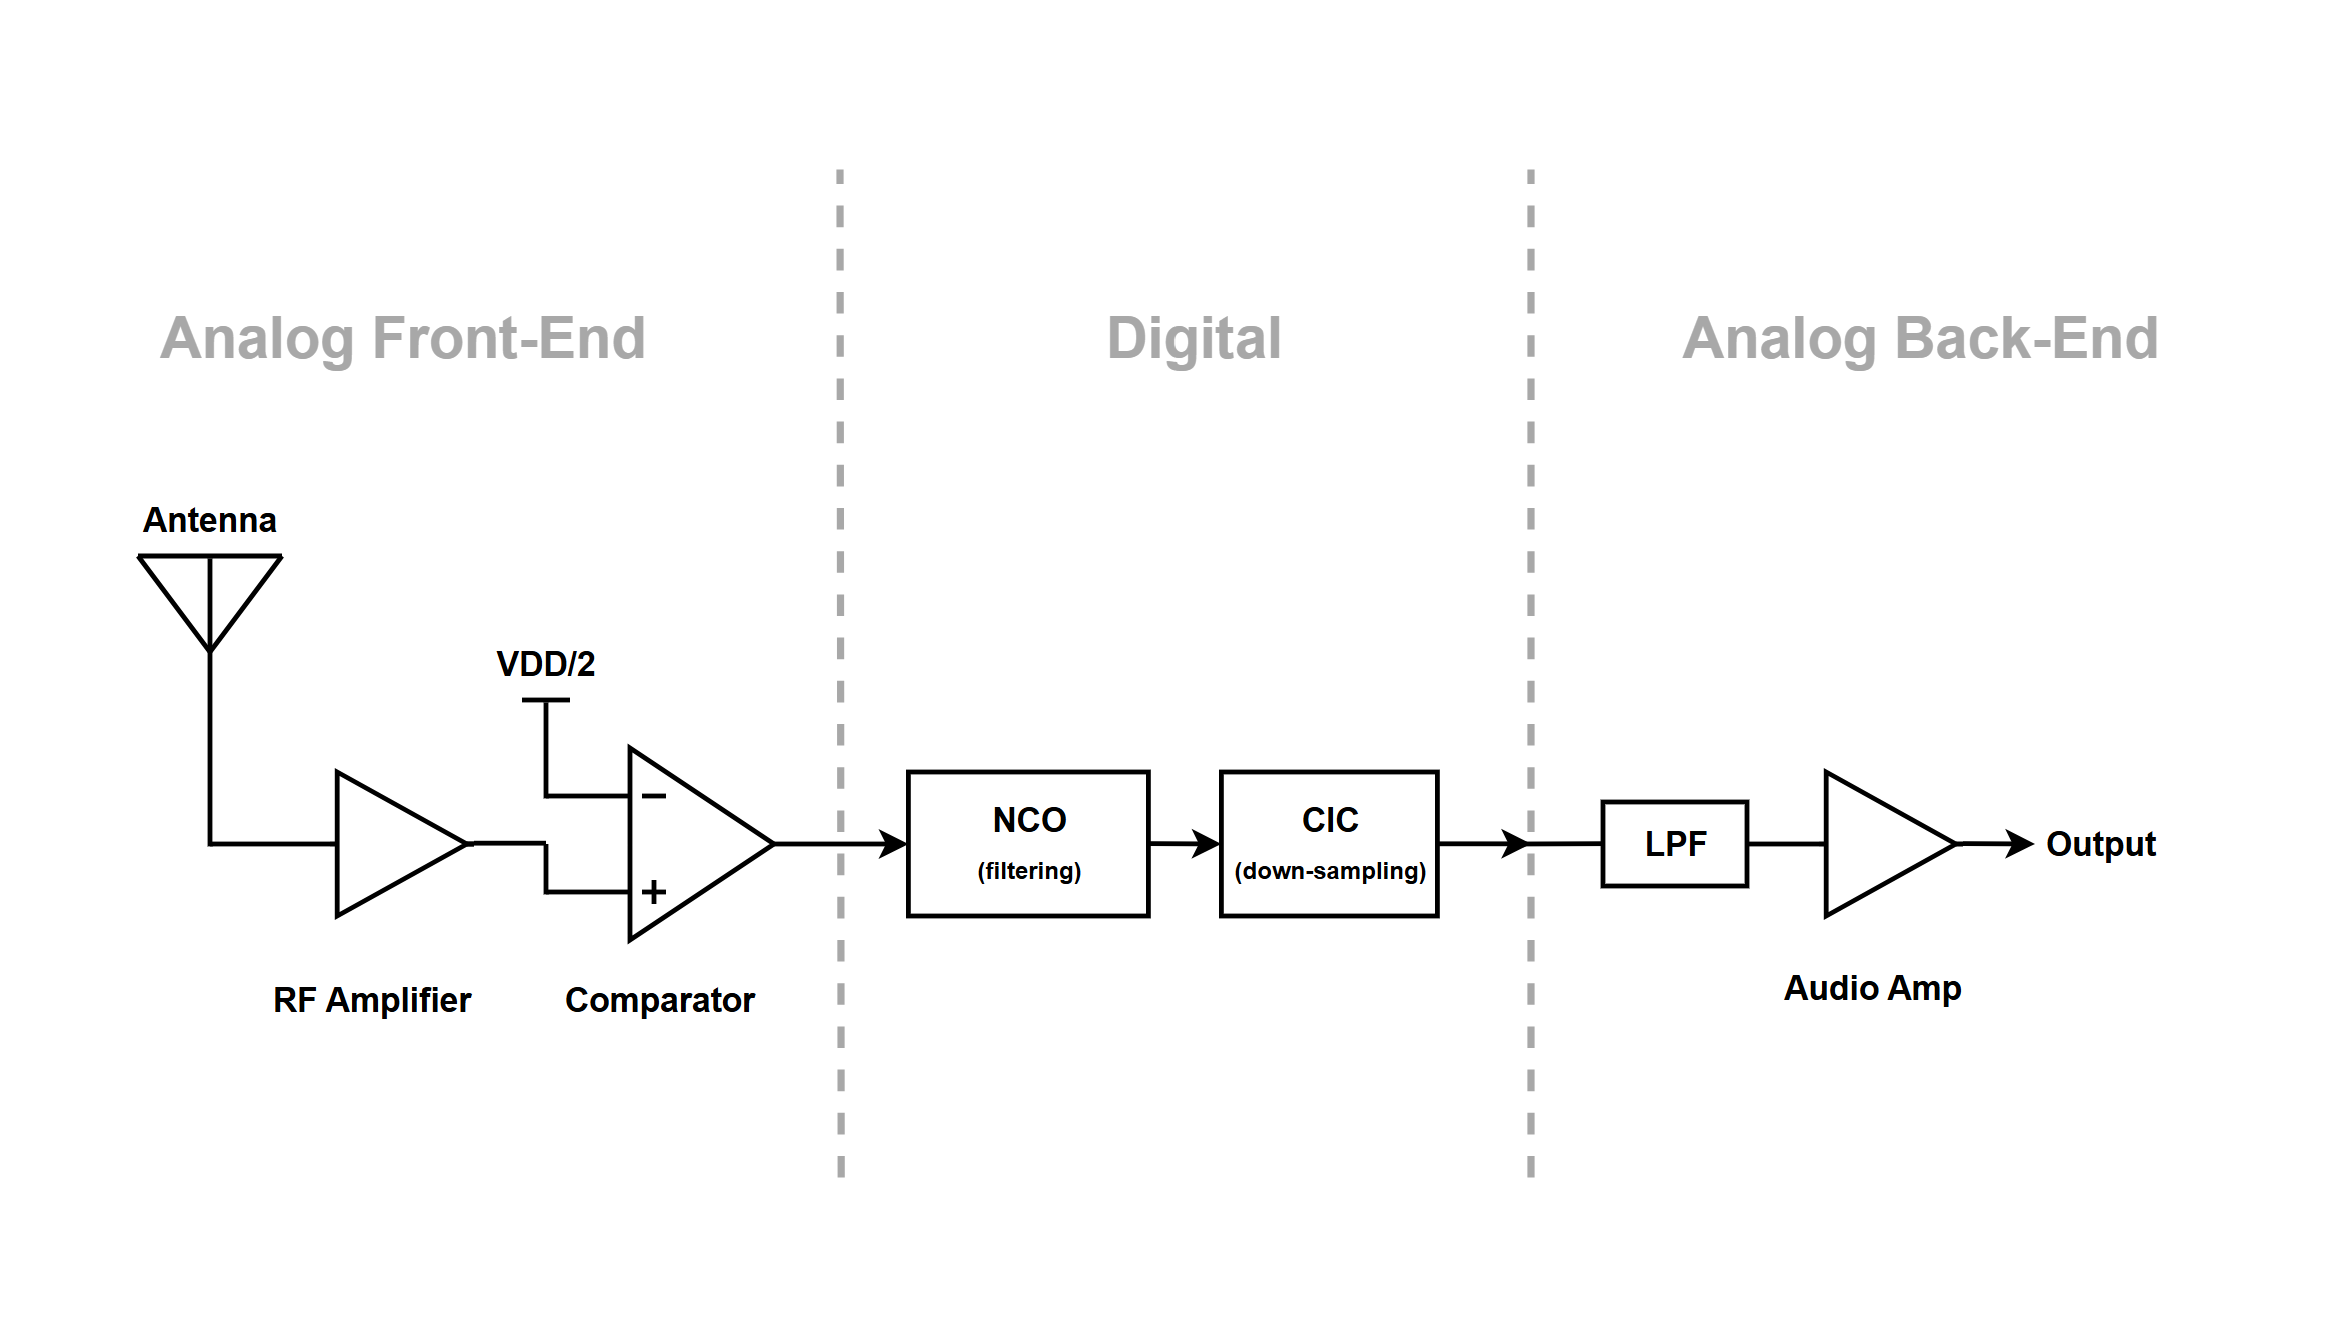
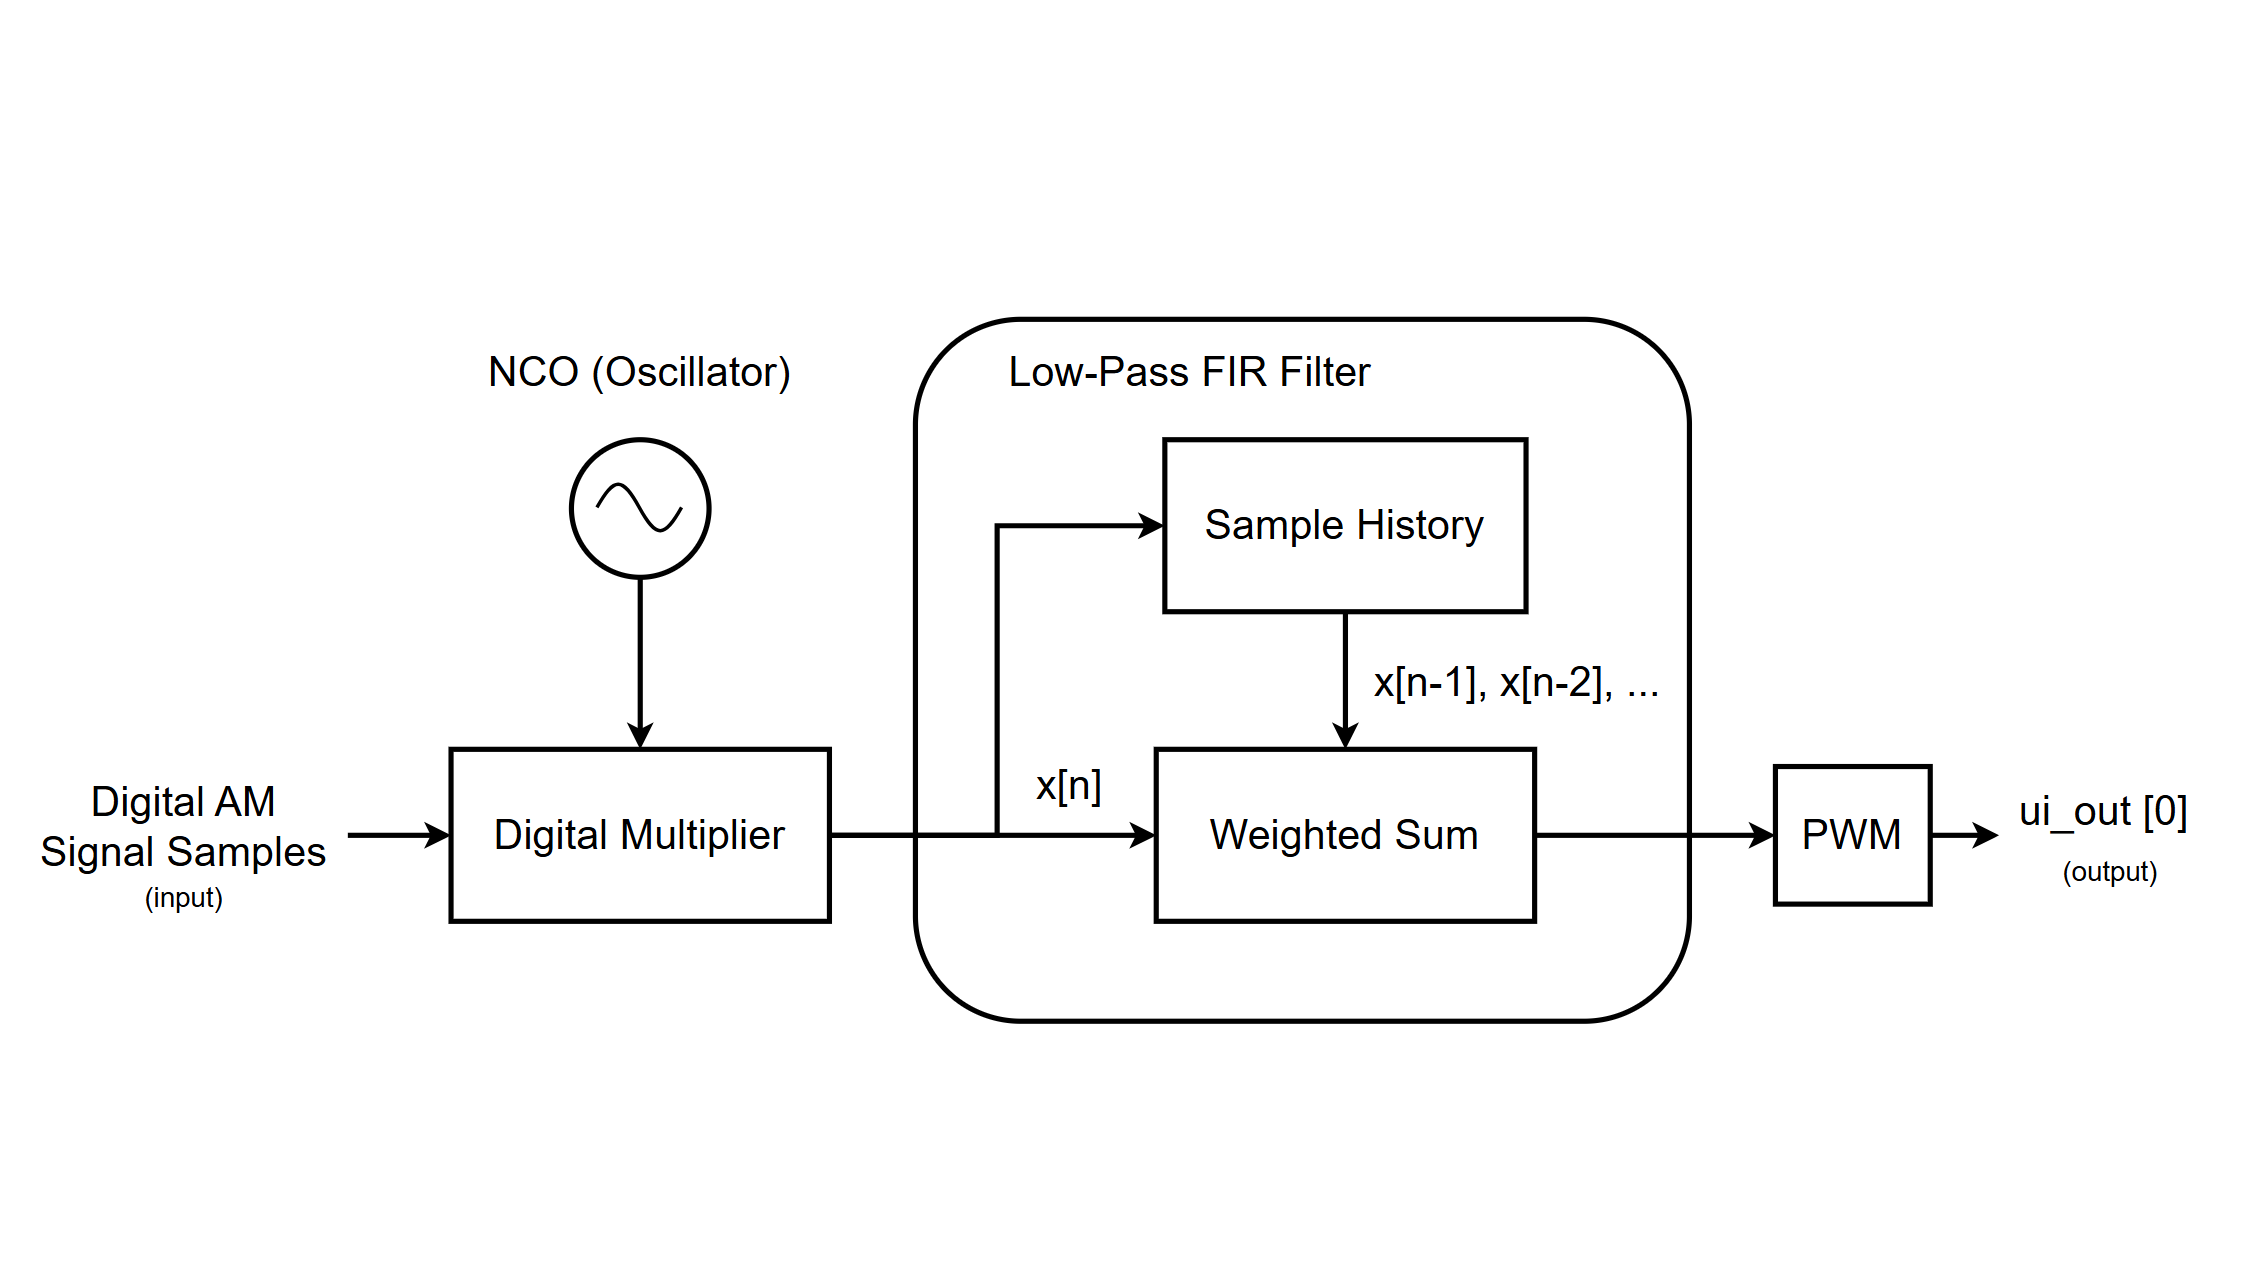
Update project proposal docs

diff --git a/docs/ProjectProposalDoc.md b/docs/ProjectProposalDoc.md
@@ -1,10 +1,10 @@
-# Project Proposal - Angela & Ethan
+# Updated Design Proposal & Timeline
+
+---
 
 ### 1. Statement of Purpose
 
-**Digital Radio:** The purpose of this project is to implement a digital radio that converts radio frequency (RF) signals into digital data. This data can then be processed, transformed, and retransmitted through a speaker.
-
-Through the use of a numerically controlled oscillator (NCO), a digital mixer, and a decimation filter, we can efficiently downsample high-frequency signals to audio frequencies.
+Digital Radio Backend: The purpose of this project is to design a digital radio backend that implements the final demodulating and filtering stages of an AM radio. It operates on a clean, pre-filtered digital AM input that is at 455 kHz IF and utilizes a synchronous multiplier to demodulate the signal down to baseband and a FIR decimation filter to extract a clean audio output.
 
 ### 2. System Diagram
 
@@ -12,11 +12,11 @@ Through the use of a numerically controlled oscillator (NCO), a digital mixer, a
 
 ### 3. I/O Pin Assignments
 
-| **I/O Pin**  | **Usage** |
+| **I/O Pin** | **Usage** |
 | --- | --- |
-| ui_in [0] | Dedicated input: digital 1-bit RF input  |
-| ui_in[7:1] | Dedicated input: Frequency control  |
-| ui_out [0] | Dedicated output: decimated baseband audio output |
+| ui_in[7:0] | Dedicated input: digital 8-bit IF input |
+| ui_out [0] | Dedicated output: PWM output signal |
+| ui_out [1] | Dedicated output: NCO debug output |
 | clk | Clock |
 | rst_n | Active-low system reset |
 
@@ -24,41 +24,18 @@ Through the use of a numerically controlled oscillator (NCO), a digital mixer, a
 
 | **Specification** | **Value** | **Notes** |
 | --- | --- | --- |
-| Tuning Bandwidth | 535kHz - 1800kHz | Frequency range for AM radio broadcasts |
-| NCO Bit Width | 16 bits | Determines how finely we can tune to specific frequencies. 16 bits should give us good precision without taking up too much space. |
-| Decimation Factor | 1024 | Lowers sample rate from 50MHz to ~48kHz, which is standard for audio. |
-| Audio Resolution | ~10-bit  | Below CD quality, but good enough and saves on space. |
+| Input Carrier Frequency | 455kHz | Industry standard frequency for IF |
+| Input bit width | 8-bits | Contains amplitude information of the incoming AM signal |
+| Clock Speed | 1MHz | This is roughly twice the input carrier frequency to ensure we can accurately reproduce the message signal |
+| Message frequency to preserve (FIR Filter) | 0 - 5kHz | |
 
-**Tiny Tapeout Restrictions:**
-
-| **Specification** | **Value** | **Notes** |
-| --- | --- | --- |
-| Clock Speed | 50MHz | Limits the frequencies we can measure (can’t receive FM radio signals) |
-| Demo-board Voltage | 3.3V | Determines what we read as a HIGH (1) or LOW (0) |
+**To be determined:** Other FIR filter specs like the number of taps & coefficient values will need to be determined through testing.
 
 ### 5. Timeline of completion / Who Does What?
 
-| **Date** | **Description of Task** |
+| Date | Description of Tasks |
 | --- | --- |
-| Week 3 (Sept 24 - Oct 1) | Project Proposal [ Both ]<br>• Preliminary research<br>• Create block diagram<br>• Define I/O assignments<br>• Define proposed project specifications |
-| Week 4 (Oct 1 - Oct 8) | Verilog code [ Both ]<br>• Create project Verilog file structure<br>• Assign and initiate I/O wires and paths according to I/O table<br>• Download LTSpice |
-| Week 5 (Oct 8 - Oct 15)<br>(Reading Week) | Verilog code<br>• NCO implementation with digital mixer [ Angela ]<br>• CIC implementation [ Ethan ] |
-| Week 6 (Oct 15 - Oct 22) | Verilog code [ Angela ]<br>• PWM Audio Output implementation<br>• Create CocoTB tests for previously implemented components<br><br>Analog design [ Ethan ]<br>• Initial circuit designs in LTSpice |
-| Week 7 (Oct 22 - Oct 29) | (**Midterm Week**) |
-| Week 8 (Oct 29 - Nov 5) | Analog design<br>• Use LTSpice simulation for testing / verification [ Angela ]<br>• Tune component specs based on testing [ Ethan ] |
-| Week 9 (Nov 5 - Nov 12) | Review / Testing [ Both ]<br>• Run synthesis with TinyTapeout<br>• Debug and review synthesis errors<br>• Work on any areas that require attention |
-| Week 10 (Nov 12 - Nov 19) | Review / Testing [ Both ]<br>• Run synthesis with TinyTapeout<br>• Debug and review synthesis errors<br>• Work on any areas that require attention |
-| Week 11 (Nov 19 - Nov 26) | Review / Documentation [ Both ]<br>• Update all documentation on GitHub (`/docs` folder)<br>• Final preparations for Final Submission |
-
----
-
-### References
-
-- [https://www.i2phd.org/code/ARM_Radio.pdf](https://www.i2phd.org/code/ARM_Radio.pdf)
-- [https://tinytapeout.com/specs/clock/](https://tinytapeout.com/specs/clock/)
-
-Proposal examples:
-
-- https://github.com/Krisphy/tt-ece298a-demoscene/blob/main/docs/ECE298a%20Proposal%20-%20Sunnie%20%26%20Krish.pdf
-- https://github.com/jamesrosssharp/tt09-am-sdr/blob/main/docs/info.md
-- [https://github.com/Rongbin99/ece298a-f25/blob/main/docs/schedule.md](https://github.com/Rongbin99/ece298a-f25/blob/main/docs/schedule.md)
+| Week 9 <br>(Nov 5 - Nov 12) | Get a first draft of the Verilog code finished:<br>• Multiplier [ Angela ]<br>• PWM Output [ Angela ]<br>• FIR Filter Implementation [ Ethan ]<br>&nbsp;&nbsp;&nbsp;&nbsp;◦ Initial draft of parameters/taps<br>&nbsp;&nbsp;&nbsp;&nbsp;◦ Basic first tests to verify parameters |
+| Week 10 <br>(Nov 12 - Nov 19) | Testing (CocoTB):<br>• Full set of unit tests for each module<br>&nbsp;&nbsp;&nbsp;&nbsp;◦ Multiplier & PWM tests [ Angela ]<br>&nbsp;&nbsp;&nbsp;&nbsp;◦ Verify parameters set for FIR [ Ethan ]<br>• Set of end-to-end tests [ Both ]<br><br>Evaluate the size of the project, make sure it fits. |
+| Week 11 <br>(Nov 19 - Nov 26) | Review / Testing [ Both ]:<br>• Work on any areas that require attention:<br>&nbsp;&nbsp;&nbsp;&nbsp;◦ Continue with creating tests<br>&nbsp;&nbsp;&nbsp;&nbsp;◦ Verify FIR parameters<br>&nbsp;&nbsp;&nbsp;&nbsp;◦ Work on reducing size of project |
+| Week 12 <br>(Nov 26 - Dec 3) | Review / Documentation [ Both ]:<br>• Update all documentation on GitHub (`/docs` folder)<br>• Final preparations for Final Submission<br>• Wrap up anything that remains to be completed. |

diff --git a/docs/OLD_ProjectProposalDoc.md b/docs/OLD_ProjectProposalDoc.md
@@ -1,0 +1,64 @@
+# Project Proposal - Angela & Ethan
+
+### 1. Statement of Purpose
+
+**Digital Radio:** The purpose of this project is to implement a digital radio that converts radio frequency (RF) signals into digital data. This data can then be processed, transformed, and retransmitted through a speaker.
+
+Through the use of a numerically controlled oscillator (NCO), a digital mixer, and a decimation filter, we can efficiently downsample high-frequency signals to audio frequencies.
+
+### 2. System Diagram
+
+![proposal-system-diagram.png](img/proposal-system-diagram.png)
+
+### 3. I/O Pin Assignments
+
+| **I/O Pin**  | **Usage** |
+| --- | --- |
+| ui_in [0] | Dedicated input: digital 1-bit RF input  |
+| ui_in[7:1] | Dedicated input: Frequency control  |
+| ui_out [0] | Dedicated output: decimated baseband audio output |
+| clk | Clock |
+| rst_n | Active-low system reset |
+
+### 4. Proposed specification
+
+| **Specification** | **Value** | **Notes** |
+| --- | --- | --- |
+| Tuning Bandwidth | 535kHz - 1800kHz | Frequency range for AM radio broadcasts |
+| NCO Bit Width | 16 bits | Determines how finely we can tune to specific frequencies. 16 bits should give us good precision without taking up too much space. |
+| Decimation Factor | 1024 | Lowers sample rate from 50MHz to ~48kHz, which is standard for audio. |
+| Audio Resolution | ~10-bit  | Below CD quality, but good enough and saves on space. |
+
+**Tiny Tapeout Restrictions:**
+
+| **Specification** | **Value** | **Notes** |
+| --- | --- | --- |
+| Clock Speed | 50MHz | Limits the frequencies we can measure (can’t receive FM radio signals) |
+| Demo-board Voltage | 3.3V | Determines what we read as a HIGH (1) or LOW (0) |
+
+### 5. Timeline of completion / Who Does What?
+
+| **Date** | **Description of Task** |
+| --- | --- |
+| Week 3 (Sept 24 - Oct 1) | Project Proposal [ Both ]<br>• Preliminary research<br>• Create block diagram<br>• Define I/O assignments<br>• Define proposed project specifications |
+| Week 4 (Oct 1 - Oct 8) | Verilog code [ Both ]<br>• Create project Verilog file structure<br>• Assign and initiate I/O wires and paths according to I/O table<br>• Download LTSpice |
+| Week 5 (Oct 8 - Oct 15)<br>(Reading Week) | Verilog code<br>• NCO implementation with digital mixer [ Angela ]<br>• CIC implementation [ Ethan ] |
+| Week 6 (Oct 15 - Oct 22) | Verilog code [ Angela ]<br>• PWM Audio Output implementation<br>• Create CocoTB tests for previously implemented components<br><br>Analog design [ Ethan ]<br>• Initial circuit designs in LTSpice |
+| Week 7 (Oct 22 - Oct 29) | (**Midterm Week**) |
+| Week 8 (Oct 29 - Nov 5) | Analog design<br>• Use LTSpice simulation for testing / verification [ Angela ]<br>• Tune component specs based on testing [ Ethan ] |
+| Week 9 (Nov 5 - Nov 12) | Review / Testing [ Both ]<br>• Run synthesis with TinyTapeout<br>• Debug and review synthesis errors<br>• Work on any areas that require attention |
+| Week 10 (Nov 12 - Nov 19) | Review / Testing [ Both ]<br>• Run synthesis with TinyTapeout<br>• Debug and review synthesis errors<br>• Work on any areas that require attention |
+| Week 11 (Nov 19 - Nov 26) | Review / Documentation [ Both ]<br>• Update all documentation on GitHub (`/docs` folder)<br>• Final preparations for Final Submission |
+
+---
+
+### References
+
+- [https://www.i2phd.org/code/ARM_Radio.pdf](https://www.i2phd.org/code/ARM_Radio.pdf)
+- [https://tinytapeout.com/specs/clock/](https://tinytapeout.com/specs/clock/)
+
+Proposal examples:
+
+- https://github.com/Krisphy/tt-ece298a-demoscene/blob/main/docs/ECE298a%20Proposal%20-%20Sunnie%20%26%20Krish.pdf
+- https://github.com/jamesrosssharp/tt09-am-sdr/blob/main/docs/info.md
+- [https://github.com/Rongbin99/ece298a-f25/blob/main/docs/schedule.md](https://github.com/Rongbin99/ece298a-f25/blob/main/docs/schedule.md)
